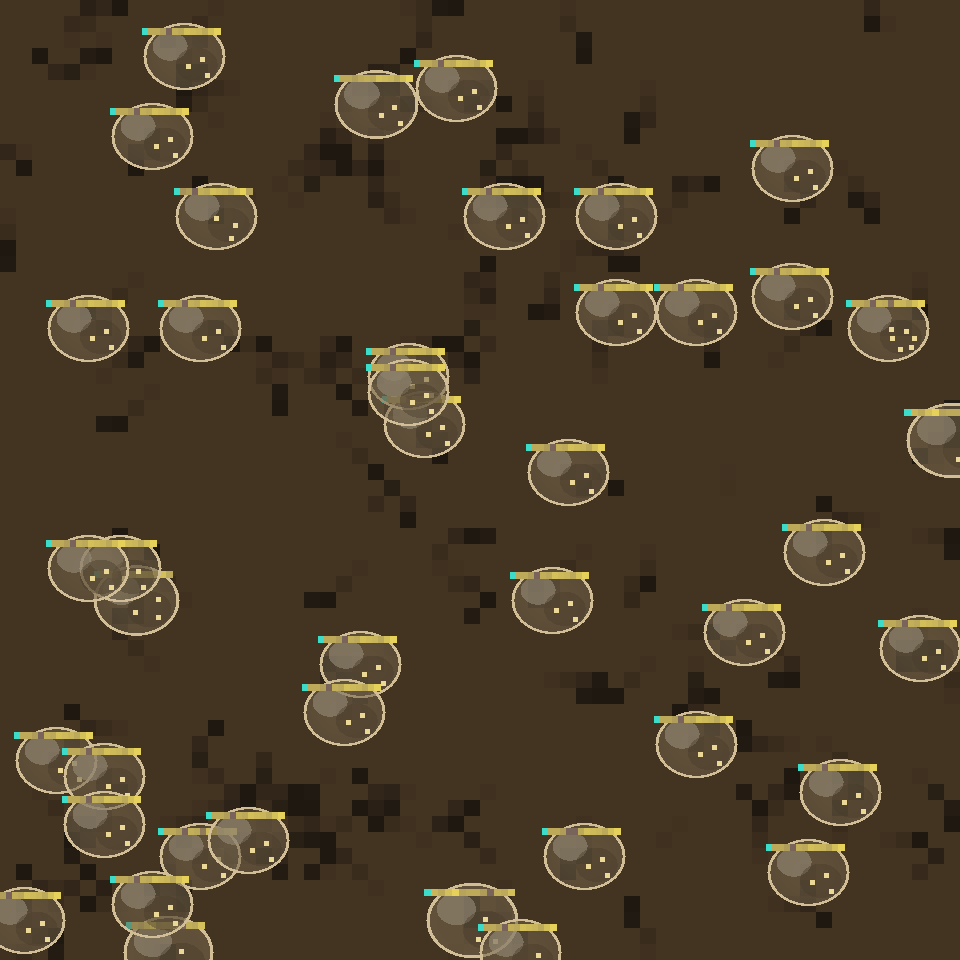
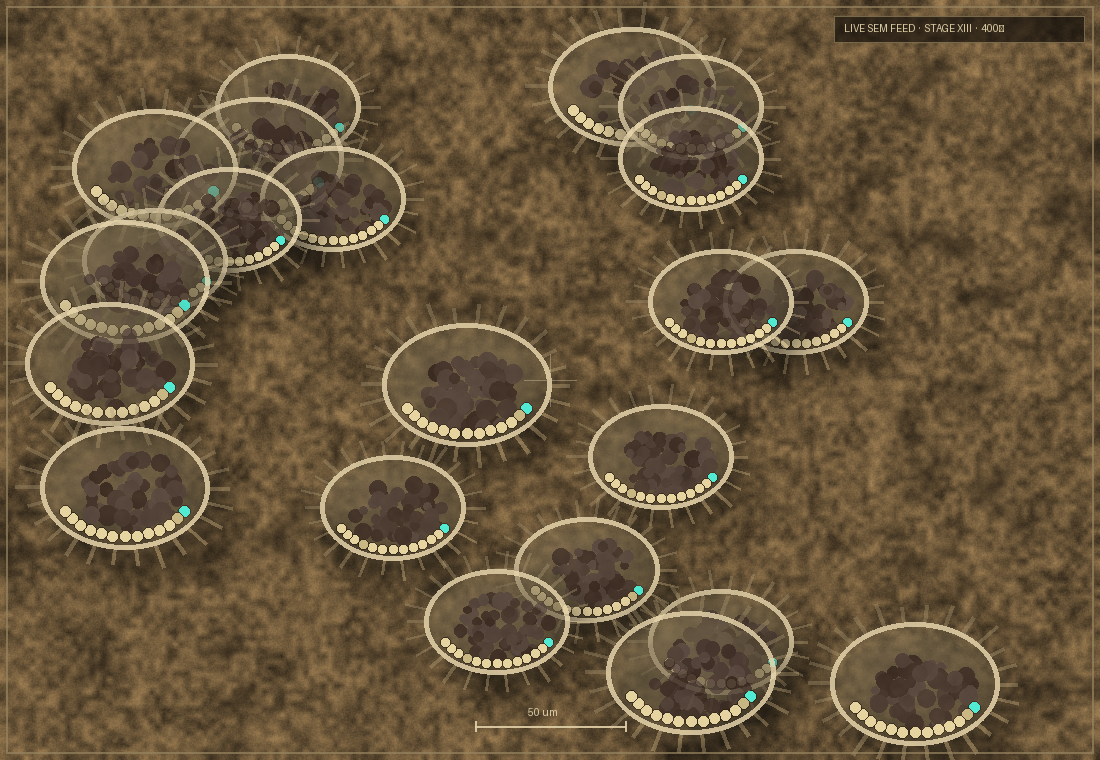
feat(v5.0): Stage XIII renders as the LIVE SEM FEED microscopy plate
Replaces the flat disc/anatomy render for digital life with a Brachionus-
style SEM plate (render_sem): large translucent depth-shaded organisms on a
granular sepia substrate, each with cilia, a dense granular gut, a nucleus,
and the genome instruction bead-arc (current opcode glows teal); one dividing
cell carries the teal division bridge. Adds the '400x' SEM badge, crosshair,
and 50um scale bar. Every element maps to real organism state.

- stage_life.py: new render_sem(state, w, h); render_plate now delegates to it.
- app.py: the Stage XIII canvas renders the SEM feed at canvas resolution
  (resolving the pipeline inner rule), so the live app matches the v5 mockup.
- renderer.py: FieldRenderer rebuilds its PhotoImage on frame-size change so a
  full-resolution SEM frame fills the canvas instead of being clipped.
- docs/generated/stage13_life.png regenerated from render_sem.

Gates green: ruff, format, mypy, pytest (1 skip), coverage >=80.

diff --git a/cellauto/rules/abiogenesis/stage_life.py b/cellauto/rules/abiogenesis/stage_life.py
@@ -49,7 +49,6 @@ from cellauto.renderer import cmap_viridis
 from cellauto.rules.abiogenesis.life_vm import (
     ANCESTOR_GENOME,
     GENOME_CAP,
-    OPCODES,
     Organism,
     VMConfig,
     error_threshold,
@@ -473,128 +472,207 @@ class AbiogenesisStageLife:
         buf[y0:y1, x0:x1] = sub
 
     # ------------------------------------------------------------------ #
-    #  Rendering — high-res internal anatomy plate (V10, Phase 5.1)        #
+    #  Rendering — SEM "live feed" microscopy plate (V9/V10, Phase 5.1)    #
     # ------------------------------------------------------------------ #
-    def render_plate(self, state: LifeState, scale: int = 12, max_organisms: int = 60) -> np.ndarray:
-        """Brachionus-style high-resolution render with visible internal
-        anatomy — the V10 deliverable. Each organism gets a translucent body
-        wall, a gut compartment with drifting ingested particles, the genome
-        instruction strip (current instruction highlighted teal), a nucleus,
-        and a cytoplasmic shimmer whose amplitude follows its execution state.
+    def render_sem(
+        self,
+        state: LifeState,
+        width: int = 600,
+        height: int = 600,
+        max_org: int = 22,
+        seed: int = 0,
+    ) -> np.ndarray:
+        """The Brachionus-style "LIVE SEM FEED · 400×" microscopy plate — the
+        headline Phase 5.1 visual. Renders a modest sample of organisms LARGE
+        (cell size is decoupled from grid density, matching the 400× reference)
+        on a granular sepia substrate, each as a translucent depth-shaded body
+        with cilia, a dense granular gut, a nucleus, and the genome instruction
+        bead-arc (the currently-executing opcode glows teal). One dividing cell
+        carries the single teal division bridge. Every element maps to real
+        organism state — no decorative motion.
 
-        This is the honest code-rendered companion to the MCP-generated
-        ``docs/generated/stage13_life.png`` preview: every anatomical element
-        maps to real organism state (no decorative motion).
+        Returns an ``(height, width, 3)`` uint8 array, ready for the canvas or
+        a saved preview. Built with Pillow for clean alpha compositing.
         """
+
+        gh, gw = state.substrate.shape
+        npr = np.random.RandomState(seed & 0x7FFFFFFF)
+        rng = random.Random(seed)
+        bg = self._sem_substrate(width, height, state.substrate, npr).convert("RGBA")
+
+        orgs = sorted(state.organisms.values(), key=lambda o: -o.energy)[:max_org]
+        orgs = sorted(orgs, key=lambda o: o.y)  # back-to-front for depth
+        margin, base_r = 0.10, min(width, height) * 0.085
+        div_oid = (
+            max(state.organisms.values(), key=lambda o: (o.n_divisions, o.energy)).oid
+            if state.organisms
+            else None
+        )
+        for o in orgs:
+            cx = (margin + (1 - 2 * margin) * (o.x / max(1, gw - 1))) * width
+            cy = (margin + (1 - 2 * margin) * (o.y / max(1, gh - 1))) * height
+            ef = min(o.energy / max(self.e_div, 1e-6), 1.6)
+            r = base_r * (0.78 + 0.5 * ef)
+            self._sem_organism(bg, cx, cy, r, o, rng, dividing=(o.oid == div_oid and ef > 0.5))
+
+        out = self._sem_overlay(bg.convert("RGB"))
+        return np.asarray(out, dtype=np.uint8)
+
+    def render_plate(self, state: LifeState, scale: int = 12, max_organisms: int = 60) -> np.ndarray:
+        """High-resolution SEM plate sized to ``grid × scale`` — the saved
+        ``docs/generated/stage13_life.png`` companion. Delegates to
+        :meth:`render_sem`."""
         h, w = state.substrate.shape
-        H, W = h * scale, w * scale
-        # Warm-sepia DIC background graded by substrate (the "instrument" look).
-        s_up = np.repeat(np.repeat(state.substrate, scale, axis=0), scale, axis=1)
-        img = np.empty((H, W, 3), dtype=np.float32)
-        img[..., 0] = 28 + 40 * s_up
-        img[..., 1] = 22 + 30 * s_up
-        img[..., 2] = 16 + 18 * s_up
+        return self.render_sem(state, width=w * scale, height=h * scale, max_org=max_organisms)
 
-        # Render the most energetic organisms big enough to show anatomy.
-        orgs = sorted(state.organisms.values(), key=lambda o: -o.energy)[:max_organisms]
-        for org in orgs:
-            self._draw_anatomy(img, org, scale)
+    def _sem_substrate(self, width: int, height: int, substrate: np.ndarray, npr: np.random.RandomState):
+        """Particulate SEM field: multi-octave value noise, sepia-graded and
+        shaded by the substrate concentration so food-rich regions read brighter."""
+        from PIL import Image, ImageFilter
 
-        return np.clip(img, 0, 255).astype(np.uint8)
+        base = np.zeros((height, width), np.float32)
+        for octave, cell in enumerate((6, 14, 32, 70)):
+            gh, gw = height // cell + 2, width // cell + 2
+            grid = (npr.random_sample((gh, gw)) * 255).astype(np.uint8)
+            up = np.asarray(Image.fromarray(grid).resize((width, height), Image.BILINEAR), np.float32) / 255
+            base += up * (0.55**octave)
+        base /= max(float(base.max()), 1e-6)
+        base = 0.82 * base + 0.18 * npr.random_sample((height, width)).astype(np.float32)
+        sub_u8 = (np.clip(substrate, 0, 1) * 255).astype(np.uint8)
+        sub_up = np.asarray(Image.fromarray(sub_u8).resize((width, height), Image.BILINEAR), np.float32) / 255
+        val = base * (0.45 + 0.55 * sub_up)
+        img = np.empty((height, width, 3), np.float32)
+        img[..., 0] = 30 + 150 * val
+        img[..., 1] = 24 + 120 * val
+        img[..., 2] = 16 + 78 * val
+        arr = np.clip(img, 0, 255).astype(np.uint8)
+        return Image.fromarray(arr, "RGB").filter(ImageFilter.GaussianBlur(0.5))
 
-    def _draw_anatomy(self, img: np.ndarray, org: Organism, scale: int) -> None:
-        H, W = img.shape[:2]
-        cx = org.x * scale + scale // 2
-        cy = org.y * scale + scale // 2
-        rr = int(scale * (1.6 + 1.4 * self._energy_frac(org)))  # body radius in px
-        if rr < 3:
-            return
-        y0, y1 = max(0, cy - rr - 1), min(H, cy + rr + 2)
-        x0, x1 = max(0, cx - rr - 1), min(W, cx + rr + 2)
-        if y0 >= y1 or x0 >= x1:
-            return
-        yy, xx = np.ogrid[y0:y1, x0:x1]
-        # Elliptical, slightly elongated body for an amoeboid read.
-        ex = (xx - cx) / rr
-        ey = (yy - cy) / (rr * 0.82)
-        d2 = ex * ex + ey * ey
-        body = d2 <= 1.0
-        wall = body & (d2 >= 0.86)
-        sub = img[y0:y1, x0:x1]
+    def _sem_organism(self, base, cx: float, cy: float, r: float, org: Organism, rng, dividing: bool) -> None:
+        """One translucent, depth-shaded organism drawn on its own RGBA layer
+        then alpha-composited onto the substrate."""
+        from PIL import Image, ImageDraw, ImageFilter
 
-        # Cytoplasmic shimmer — amplitude tied to "execution state" (the last
-        # opcode + ip), deterministic per organism so it reads as live motion
-        # without being decorative noise.
-        phase = (org.ip * 13 + org.last_op * 29 + org.age) % 97 / 97.0
-        shimmer = 1.0 + 0.10 * math.sin(2 * math.pi * phase) * d2
-        # Translucent interior: warm fill over the background.
-        fill = np.array((120, 104, 78), dtype=np.float32)
-        sub[body] = (sub[body] * 0.45 + fill * 0.55 * shimmer[body, None]).astype(np.float32)
-        # Hairline body wall.
-        sub[wall] = (210, 190, 150)
+        pad = int(r * 2.2) + 8
+        L = Image.new("RGBA", (pad * 2, pad * 2), (0, 0, 0, 0))
+        ox, oy = pad, pad
+        rx, ry = r, r * 0.72
 
-        # Nucleus — a rounded compartment offset from centre.
-        nucleus = ((ex + 0.35) ** 2 + (ey + 0.30) ** 2) <= 0.18
-        sub[nucleus] = sub[nucleus] * 0.4 + np.array((150, 140, 120), dtype=np.float32) * 0.6
+        # Soft drop shadow (depth).
+        sh = Image.new("RGBA", L.size, (0, 0, 0, 0))
+        ImageDraw.Draw(sh).ellipse(
+            [ox - rx + r * 0.18, oy - ry + r * 0.28, ox + rx + r * 0.18, oy + ry + r * 0.28],
+            fill=(0, 0, 0, 120),
+        )
+        L = Image.alpha_composite(L, sh.filter(ImageFilter.GaussianBlur(r * 0.22)))
+        d = ImageDraw.Draw(L)
 
-        # Gut compartment with drifting ingested particles (lower-right lobe).
-        gut = ((ex - 0.30) ** 2 + (ey - 0.25) ** 2) <= 0.26
-        sub[gut] = sub[gut] * 0.6 + np.array((70, 58, 40), dtype=np.float32) * 0.4
-        img[y0:y1, x0:x1] = sub
-        self._draw_gut_particles(img, org, cx, cy, rr, scale)
-        self._draw_genome_strip(img, org, cx, cy, rr, scale)
-        self._draw_division_glow(img, org, cx, cy, rr, d2, body, x0, x1, y0, y1)
+        # Cilia / flagella hairs around the rim.
+        n_hair = 26
+        for i in range(n_hair):
+            a = 2 * math.pi * i / n_hair
+            x1, y1 = ox + math.cos(a) * rx, oy + math.sin(a) * ry
+            hl = r * (0.18 + 0.12 * rng.random())
+            d.line(
+                [x1, y1, x1 + math.cos(a) * hl, y1 + math.sin(a) * hl],
+                fill=(180, 160, 120, 90),
+                width=max(1, int(r * 0.05)),
+            )
 
-    def _draw_gut_particles(self, img, org, cx, cy, rr, scale) -> None:
-        H, W = img.shape[:2]
-        n = 3 + (org.regs[0] % 4)
-        for k in range(n):
-            ang = org.ip * 0.7 + k * 2.39 + org.age * 0.05
-            rad = rr * (0.18 + 0.22 * ((k + org.last_op) % 5) / 5.0)
-            px = int(cx + 0.30 * rr + math.cos(ang) * rad)
-            py = int(cy + 0.25 * rr + math.sin(ang) * rad)
-            self._dot(img, px, py, max(1, scale // 6), (235, 215, 150))
+        # Soft translucent halo (the SEM out-of-focus glow).
+        halo = Image.new("RGBA", L.size, (0, 0, 0, 0))
+        ImageDraw.Draw(halo).ellipse(
+            [ox - rx * 1.12, oy - ry * 1.12, ox + rx * 1.12, oy + ry * 1.12], fill=(150, 134, 100, 60)
+        )
+        L = Image.alpha_composite(L, halo.filter(ImageFilter.GaussianBlur(r * 0.18)))
+        d = ImageDraw.Draw(L)
 
-    def _draw_genome_strip(self, img, org, cx, cy, rr, scale) -> None:
-        """A strip of dots along the top of the body showing the next opcodes;
-        the currently-executing instruction is highlighted teal (PRD §4 F3)."""
-        H, W = img.shape[:2]
-        n_show = min(16, len(org.genome)) if org.genome else 0
-        if n_show == 0:
-            return
-        dot = max(1, scale // 5)
-        spacing = max(dot + 1, int(2 * rr / max(1, n_show)))
-        startx = cx - (n_show * spacing) // 2
-        sy = cy - int(rr * 0.62)
-        ip_pos = org.ip % len(org.genome)
-        for i in range(n_show):
-            gi = (ip_pos + i) % len(org.genome)
-            opv = org.genome[gi]
-            px = startx + i * spacing
-            if i == 0:
-                color = (60, 220, 200)  # teal — the instruction executing now
-            else:
-                g = int(120 + 110 * (opv / max(1, len(OPCODES) - 1)))
-                color = (g, g - 20, 90)
-            self._dot(img, px, sy, dot, color)
+        # Translucent body with a radial depth gradient.
+        grad = Image.new("L", L.size, 0)
+        gd = ImageDraw.Draw(grad)
+        steps = 14
+        for s in range(steps, 0, -1):
+            f = s / steps
+            gd.ellipse([ox - rx * f, oy - ry * f, ox + rx * f, oy + ry * f], fill=int(60 + 120 * (1 - f)))
+        body_arr = np.zeros((L.size[1], L.size[0], 4), np.uint8)
+        g = np.asarray(grad, np.float32) / 255
+        body_arr[..., 0], body_arr[..., 1], body_arr[..., 2] = 150, 132, 96
+        body_arr[..., 3] = np.clip(g * 175, 0, 175).astype(np.uint8)
+        L = Image.alpha_composite(L, Image.fromarray(body_arr, "RGBA"))
+        d = ImageDraw.Draw(L)
 
-    def _draw_division_glow(self, img, org, cx, cy, rr, d2, body, x0, x1, y0, y1) -> None:
-        # A protocell that just divided glows teal — the one chromatic accent.
-        if org.n_divisions == 0 or self._energy_frac(org) < 0.75:
-            return
-        sub = img[y0:y1, x0:x1]
-        glow = body & (d2 >= 0.55)
-        sub[glow] = sub[glow] * 0.5 + np.array((33, 201, 180), dtype=np.float32) * 0.5
-        img[y0:y1, x0:x1] = sub
+        # Bright rim highlight (the SEM wall) and the offset nucleus.
+        d.ellipse(
+            [ox - rx, oy - ry, ox + rx, oy + ry], outline=(225, 208, 168, 220), width=max(1, int(r * 0.07))
+        )
+        nx, ny = ox - rx * 0.32, oy - ry * 0.26
+        d.ellipse([nx - r * 0.22, ny - r * 0.22, nx + r * 0.22, ny + r * 0.22], fill=(120, 104, 78, 150))
 
-    @staticmethod
-    def _dot(img: np.ndarray, px: int, py: int, r: int, color: tuple[int, int, int]) -> None:
-        H, W = img.shape[:2]
-        y0, y1 = max(0, py - r), min(H, py + r + 1)
-        x0, x1 = max(0, px - r), min(W, px + r + 1)
-        if y0 >= y1 or x0 >= x1:
-            return
-        img[y0:y1, x0:x1] = color
+        # Dense granular gut (the "stomach contents").
+        gx, gy = ox + rx * 0.10, oy + ry * 0.12
+        n_gran = 46 + (org.regs[0] % 18)
+        for _k in range(n_gran):
+            a = rng.random() * 2 * math.pi
+            rad_f = rng.random() ** 0.5
+            px = gx + math.cos(a) * rx * 0.62 * rad_f
+            py = gy + math.sin(a) * ry * 0.62 * rad_f
+            gr = r * (0.05 + 0.07 * rng.random())
+            shade = 40 + int(35 * rng.random())
+            d.ellipse([px - gr, py - gr, px + gr, py + gr], fill=(shade + 16, shade, shade - 8, 220))
+
+        # Genome instruction bead-arc along the lower rim; current opcode = teal.
+        if org.genome:
+            n_show = min(16, len(org.genome))
+            ip0 = org.ip % len(org.genome)
+            for i in range(n_show):
+                a = math.pi * (0.16 + 0.68 * i / max(1, n_show - 1))
+                px, py = ox + math.cos(a) * rx * 0.80, oy + math.sin(a) * ry * 0.80
+                dot = max(2, int(r * 0.075))
+                if i == 0:
+                    col = (80, 235, 210, 255)
+                else:
+                    base_c = 235 if org.genome[(ip0 + i) % len(org.genome)] / 19 > 0.5 else 205
+                    col = (base_c, base_c - 18, base_c - 70, 245)
+                d.ellipse([px - dot, py - dot, px + dot, py + dot], fill=col, outline=(40, 30, 20, 160))
+
+        if dividing:
+            glow = Image.new("RGBA", L.size, (0, 0, 0, 0))
+            gd2 = ImageDraw.Draw(glow)
+            gd2.ellipse(
+                [ox + rx * 0.55, oy - ry * 0.78, ox + rx * 1.95, oy + ry * 0.78], fill=(40, 225, 205, 70)
+            )
+            gd2.line(
+                [ox + rx * 0.7, oy, ox + rx * 1.25, oy],
+                fill=(120, 245, 225, 230),
+                width=max(2, int(r * 0.12)),
+            )
+            L = Image.alpha_composite(L, glow.filter(ImageFilter.GaussianBlur(r * 0.16)))
+
+        base.alpha_composite(L, (int(cx - pad), int(cy - pad)))
+
+    def _sem_overlay(self, img, scale_um: int = 50):
+        """Instrument chrome: frame, crosshair, the 400× SEM badge, and the
+        50 µm scale bar — the museum-microscopy furniture from the reference."""
+        from PIL import ImageDraw
+
+        width, height = img.size
+        d = ImageDraw.Draw(img, "RGBA")
+        d.rectangle([6, 6, width - 7, height - 7], outline=(150, 132, 96, 180), width=2)
+        cx, cy = width // 2, height // 2
+        d.line([cx - 26, cy, cx + 26, cy], fill=(200, 185, 150, 120), width=1)
+        d.line([cx, cy - 26, cx, cy + 26], fill=(200, 185, 150, 120), width=1)
+        bw, bh = 250, 26
+        d.rectangle(
+            [width - bw - 16, 16, width - 16, 16 + bh], fill=(20, 15, 10, 170), outline=(150, 132, 96, 180)
+        )
+        d.text((width - bw - 6, 22), "LIVE SEM FEED  ·  STAGE XIII  ·  400×", fill=(220, 205, 165, 255))
+        sb = 150
+        sx, sy = cx - sb // 2, height - 34
+        d.line([sx, sy, sx + sb, sy], fill=(225, 208, 168, 230), width=2)
+        d.line([sx, sy - 5, sx, sy + 5], fill=(225, 208, 168, 230), width=2)
+        d.line([sx + sb, sy - 5, sx + sb, sy + 5], fill=(225, 208, 168, 230), width=2)
+        d.text((cx - 22, sy - 20), f"{scale_um} um", fill=(220, 205, 165, 255))
+        return img
 
     # discrete fallback (kept for the protocol; field path is the real one).
     def render_cell(self, state: LifeState, x: int, y: int) -> tuple[str, str]:

diff --git a/cellauto/app.py b/cellauto/app.py
@@ -2318,9 +2318,20 @@ class App(tk.Frame):
 
     def _render(self) -> None:
         rule = self.engine.rule
+        state = self.engine.state
         kind = getattr(rule, "renderer_kind", "discrete")
         if kind == "field" and isinstance(self._renderer, FieldRenderer):
-            self._renderer.render(rule.render_rgb(self.engine.state))
+            # Stage XIII renders as the "LIVE SEM FEED · 400×" microscopy plate
+            # at canvas resolution. Resolve the pipeline's inner rule/state so
+            # this fires both for the standalone life rule and the pipeline at
+            # its final stage. The FieldRenderer auto-scales the full-res frame.
+            active_rule = getattr(state, "inner_rule", None) or rule
+            active_state = getattr(state, "inner_state", None)
+            active_state = active_state if active_state is not None else state
+            if hasattr(active_rule, "render_sem"):
+                self._renderer.render(active_rule.render_sem(active_state, CANVAS_SIZE, CANVAS_SIZE))
+            else:
+                self._renderer.render(rule.render_rgb(state))
         elif isinstance(self._renderer, DiscreteRenderer):
             self._renderer.render(lambda x, y: rule.render_cell(self.engine.state, x, y))
         else:

diff --git a/cellauto/renderer.py b/cellauto/renderer.py
@@ -342,11 +342,23 @@ class FieldRenderer:
         self.canvas.image = zoomed
 
     def render(self, rgb_array: np.ndarray) -> None:
+        import tkinter as tk
+
         h, w = rgb_array.shape[:2]
+        # ``configure(data=...)`` writes into the existing PhotoImage without
+        # resizing it, so a frame whose size differs from the one reset() built
+        # would be clipped. Rebuild the backing image when the size changes —
+        # this lets a rule render at (near) canvas resolution (e.g. the Stage
+        # XIII SEM feed at 600×600) while grid-sized fields keep their old size.
+        if self._image.width() != w or self._image.height() != h:
+            self._image = tk.PhotoImage(width=w, height=h)
         # Build a PPM-format byte string Tk can ingest.
         header = f"P6\n{w} {h}\n255\n".encode("ascii")
         body = rgb_array.astype(np.uint8).tobytes()
         self._image.configure(data=header + body, format="PPM")
+        # Recompute the integer zoom from the ACTUAL frame size so the SEM feed
+        # displays ~1:1 while grid-sized fields still scale up to fill the canvas.
+        self._scale = max(1, self.canvas_size // max(w, h))
         # Re-zoom and swap the canvas image to refresh.
         zoomed = self._image.zoom(self._scale, self._scale)
         self.canvas.itemconfigure(self._image_item, image=zoomed)